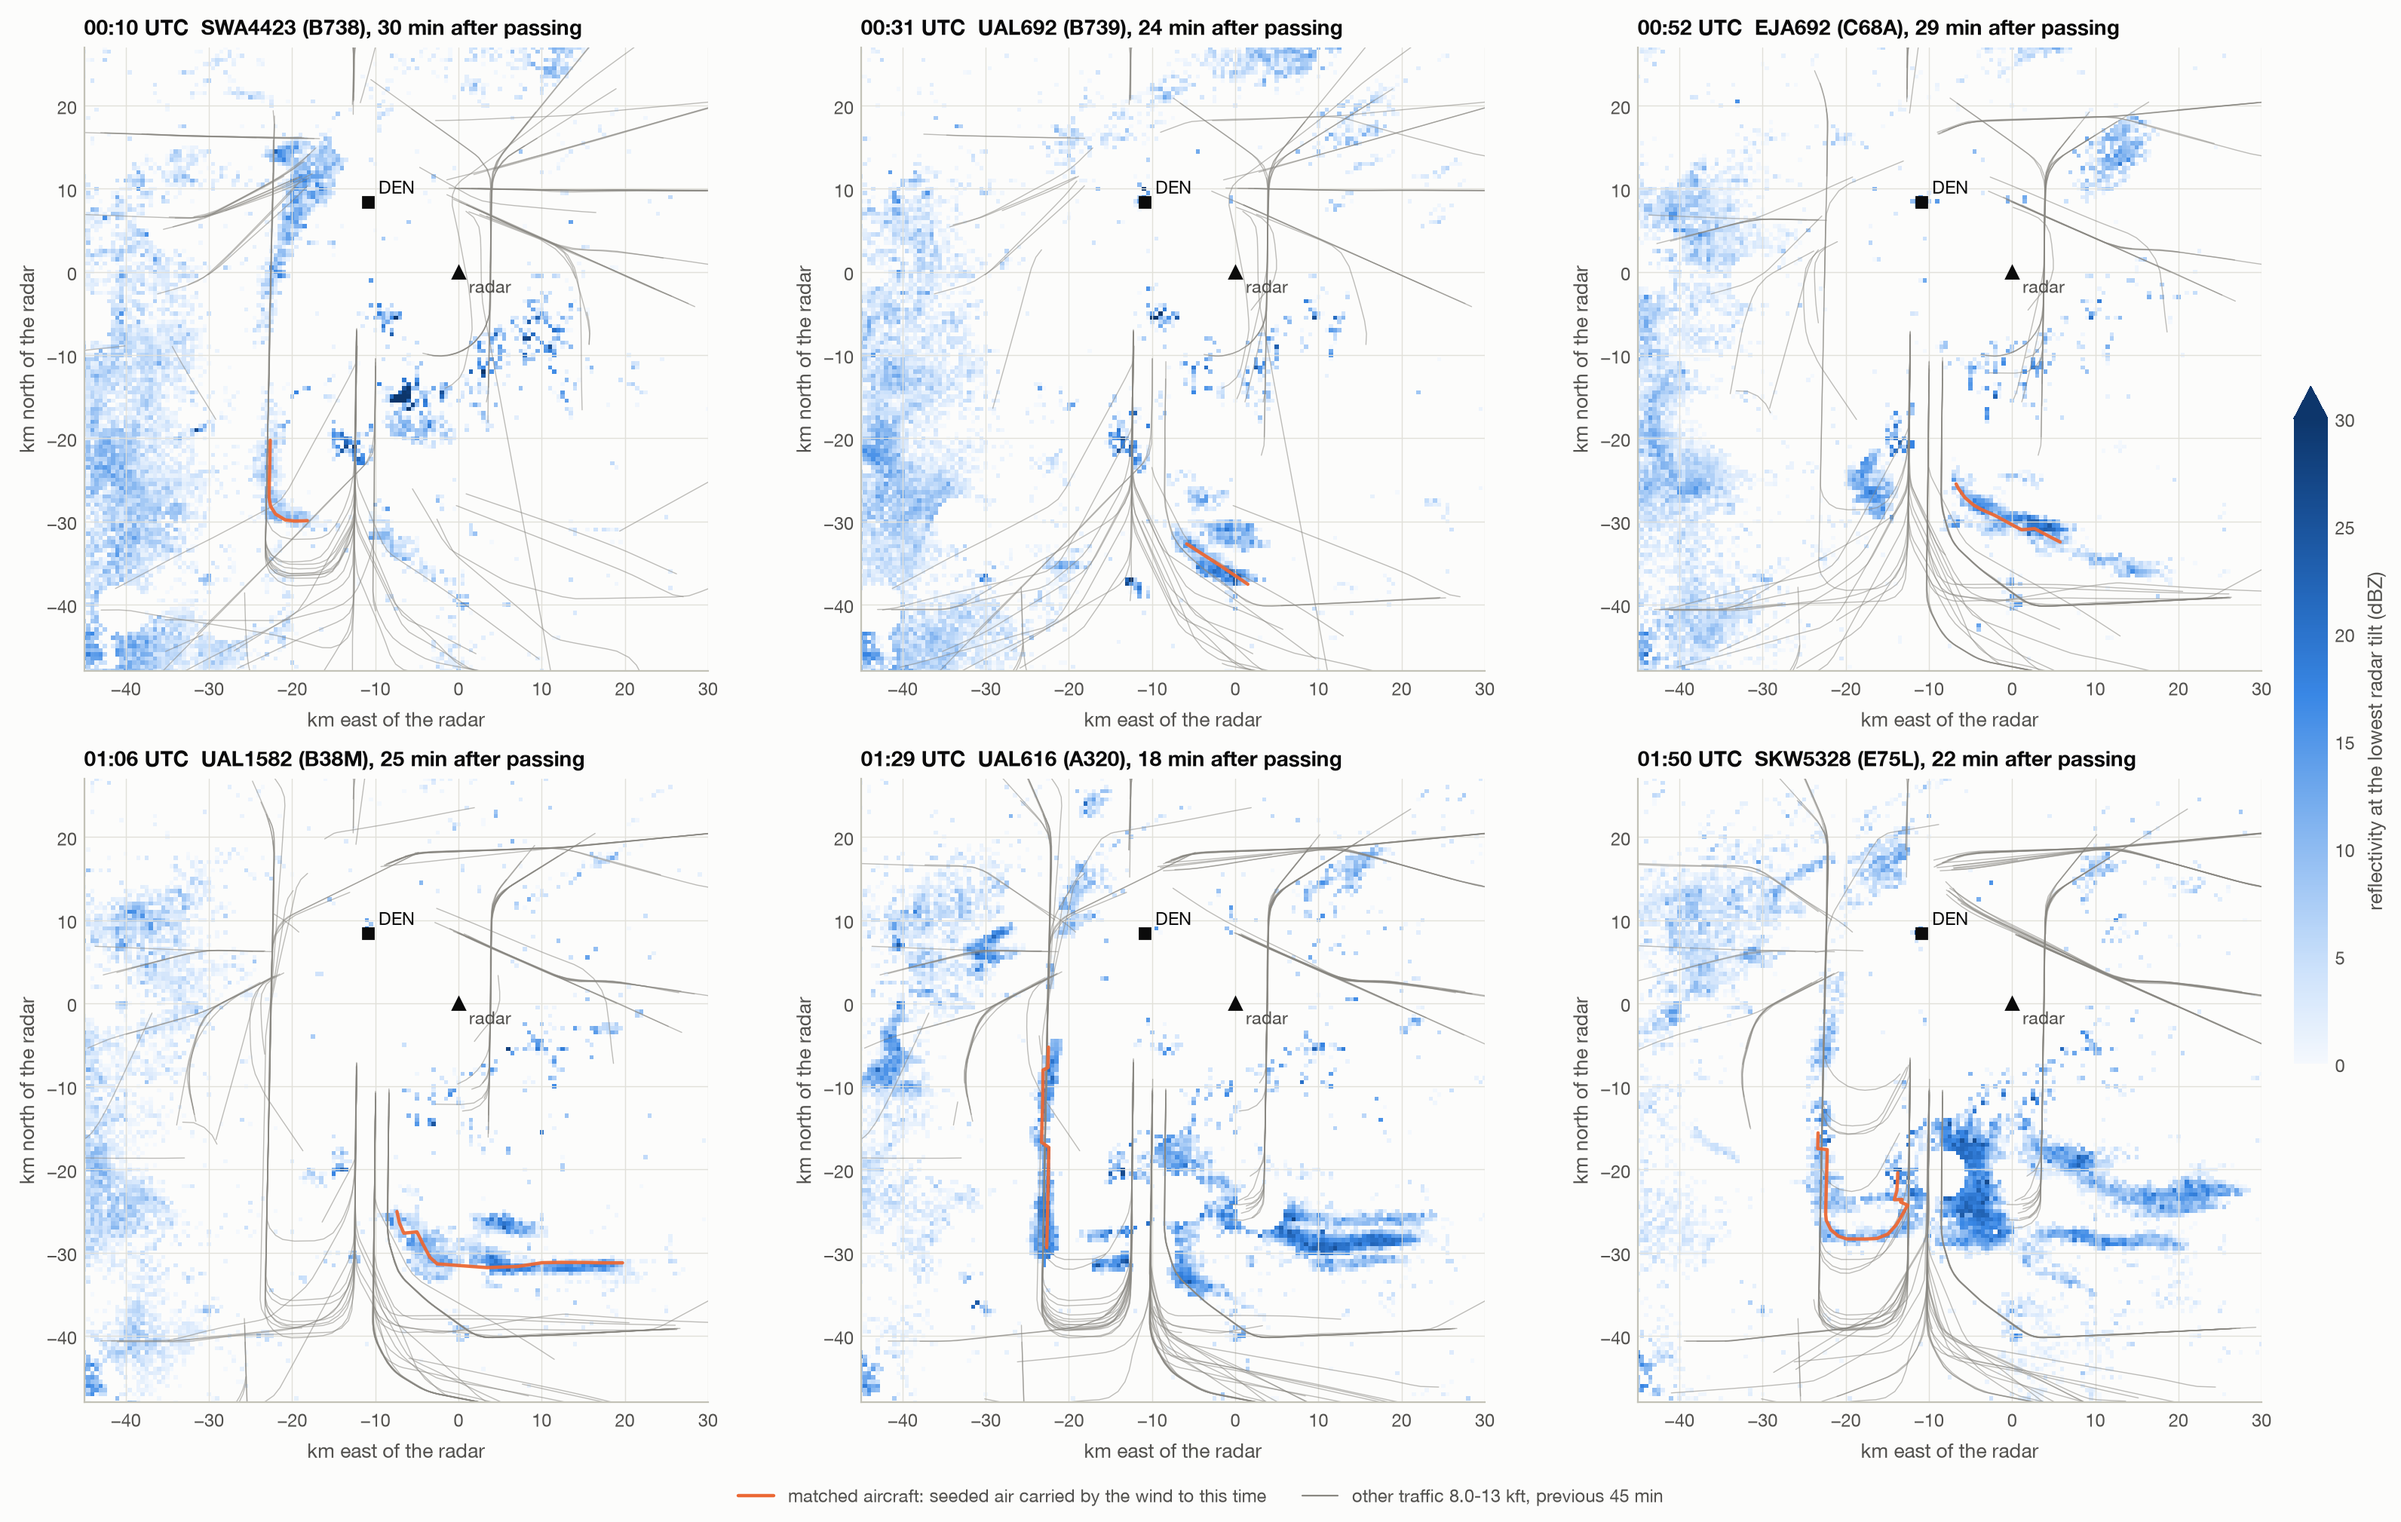
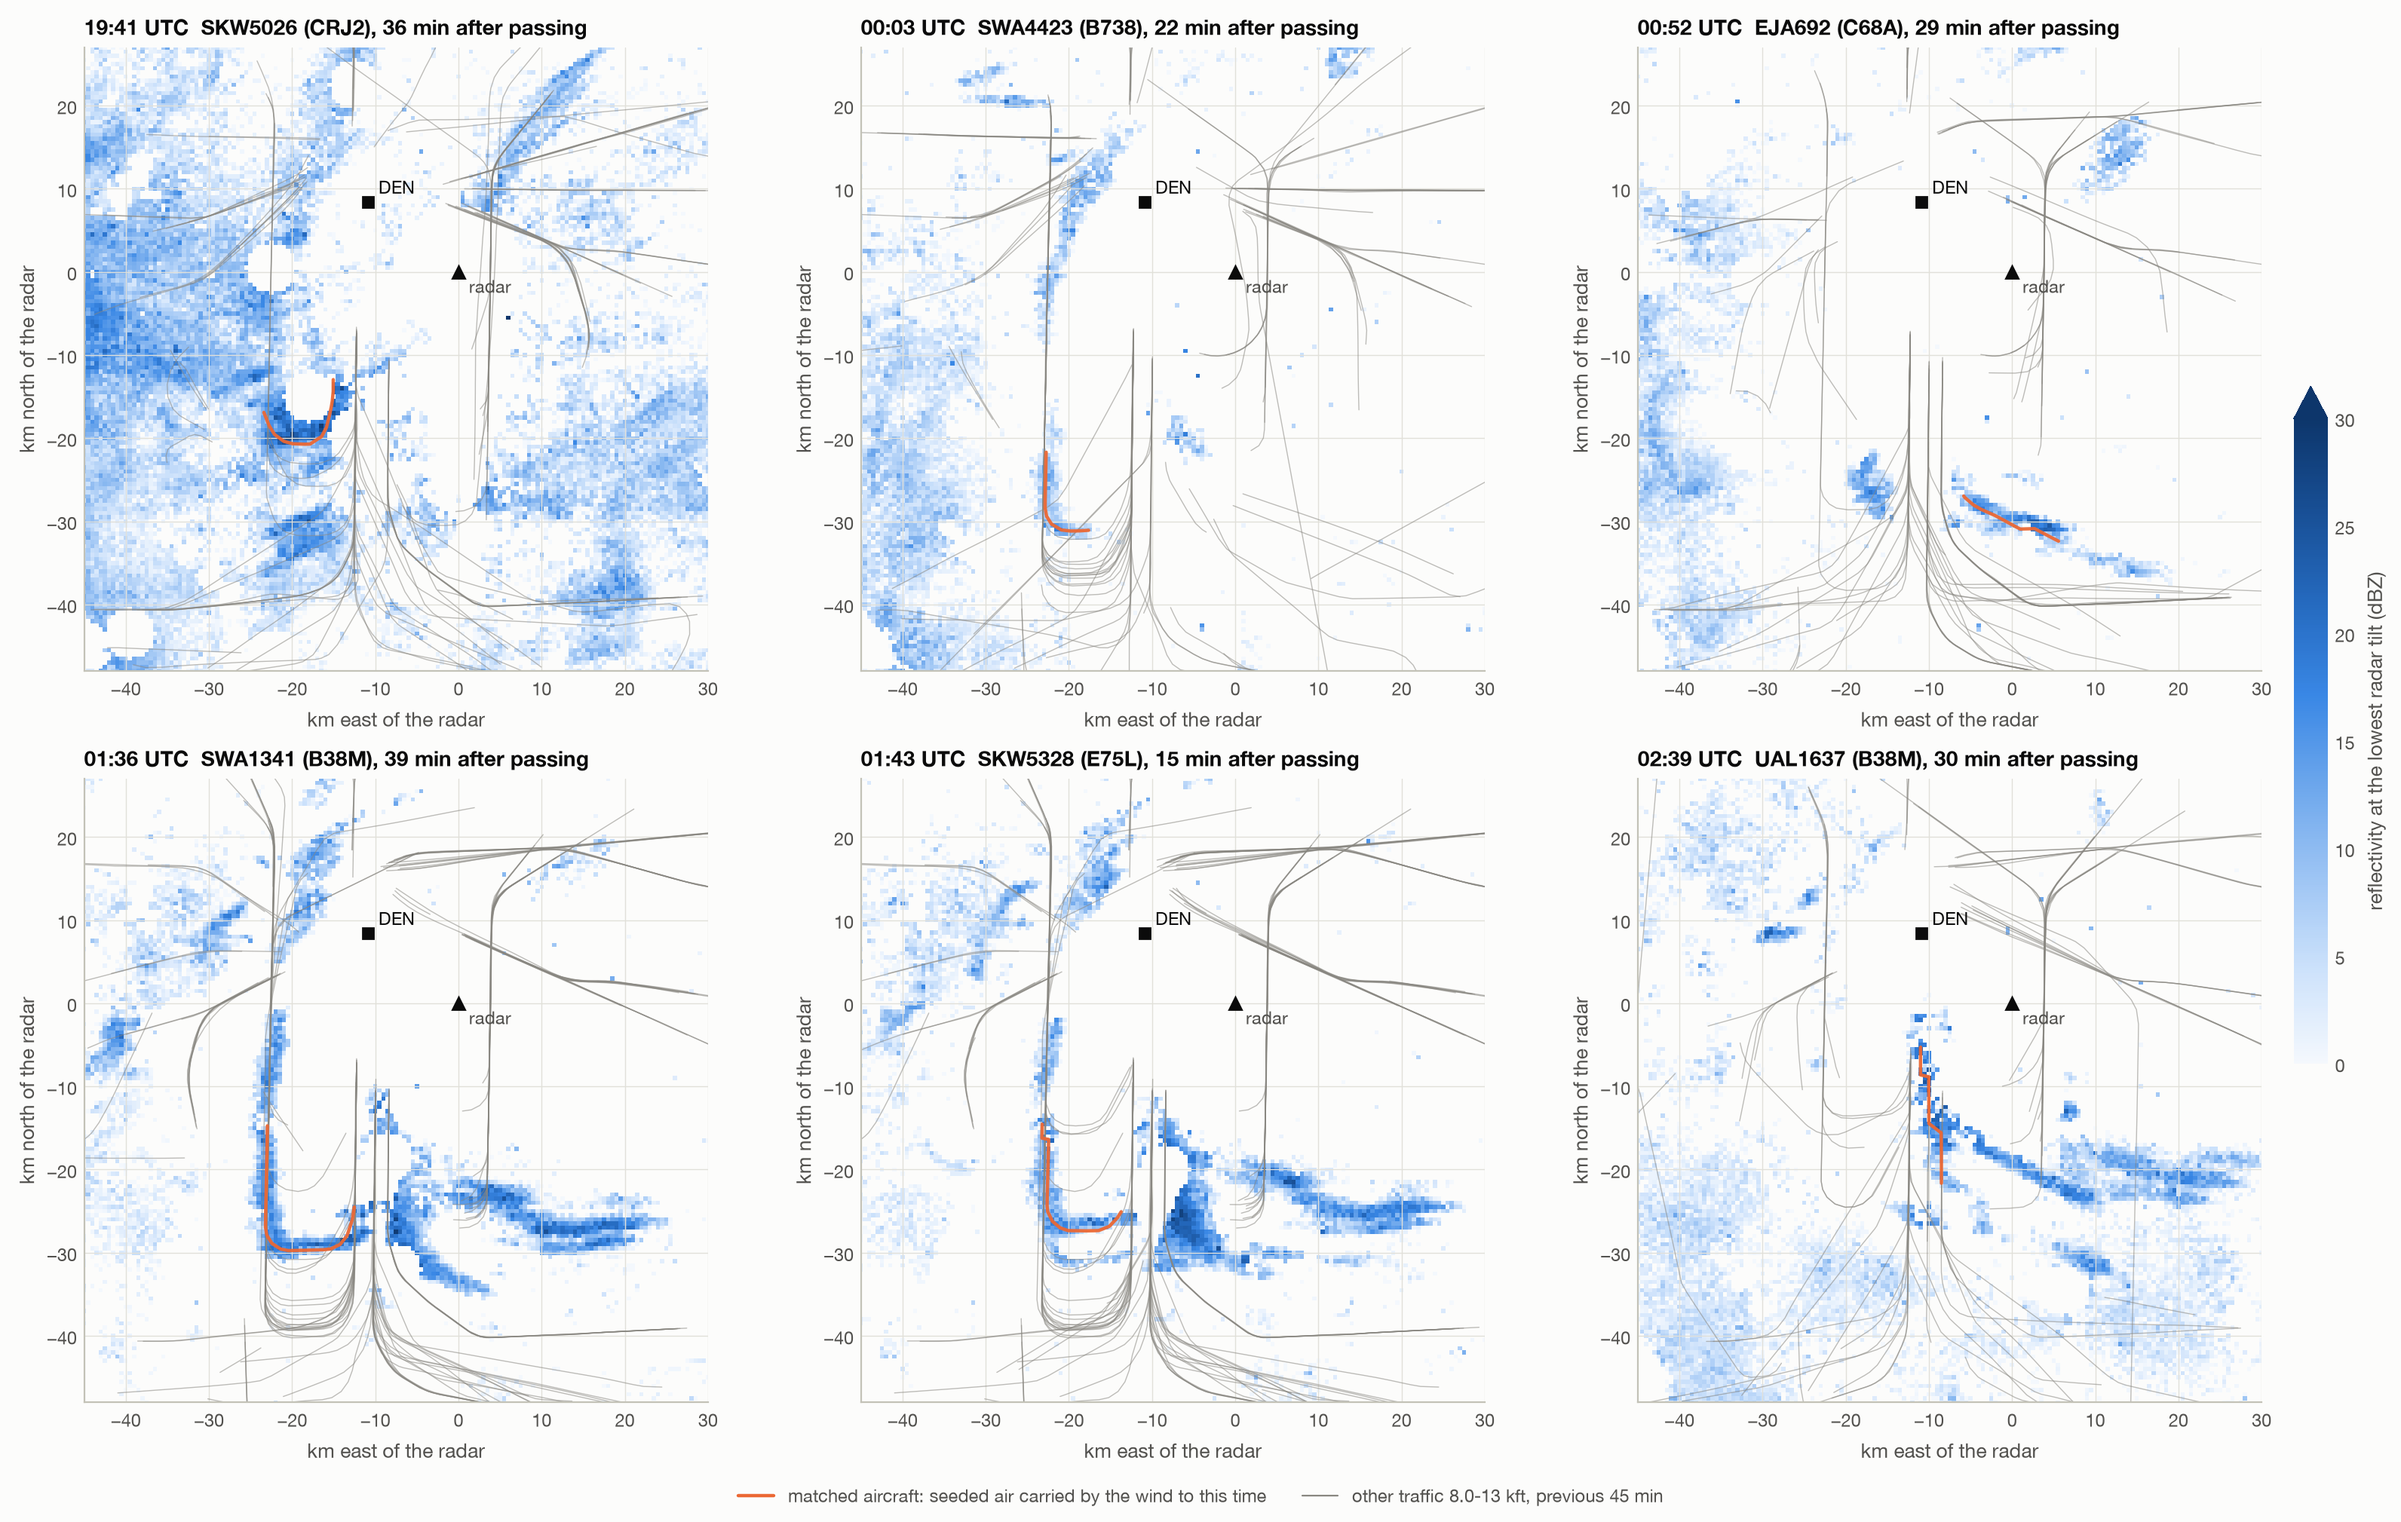
Denver figures, page and exposure layer from the final method; robust seeding layer; table in flight order

diff --git a/site/template.html b/site/template.html
@@ -144,10 +144,11 @@ footer.sources { padding-block: 28px 0; border-top: 1px solid var(--rule); font-
 
   <section aria-labelledby="h-aircraft">
     <div class="eyebrow">The aircraft</div>
-    <h2 id="h-aircraft">Ten flights, each matched to the streak it left</h2>
-    <p class="lede">Every one was an airliner or business jet, nine of them landing. They crossed the
-      cloud at about 3 km, in air at &minus;15 to &minus;18&nbsp;&deg;C, and their snow showed up on the
-      radar a quarter of an hour to three quarters of an hour later.</p>
+    <h2 id="h-aircraft">Sixteen flights matched to streaks, about twelve more than chance</h2>
+    <p class="lede">Most were airliners on the arrival pattern, and most crossed the cloud at about
+      3 km, in air at &minus;16 to &minus;18&nbsp;&deg;C; their snow showed up on the radar 15 to 50
+      minutes later. Rotated copies of the day's flights produce about
+      four such matches, so a few of these are probably chance; which ones cannot be told apart.</p>
     <div class="table-wrap">
       <table>
         <thead><tr><th scope="col">Flight</th><th scope="col">Type</th><th scope="col">Phase</th>
@@ -159,7 +160,9 @@ footer.sources { padding-block: 28px 0; border-top: 1px solid var(--rule); font-
     </div>
     <p class="note">Altitude is pressure altitude. Fall speed is the height the ice had to fall to
       reach the radar beam divided by the delay; snow crystals and flakes fall at 0.3&ndash;1.5 m/s.
-      Snowfall is water equivalent from the reflectivity, uncertain by a factor of a few.</p>
+      Snowfall is water equivalent from the reflectivity, uncertain by a factor of a few. Two rows
+      look physically odd (an airliner seeding at 20&nbsp;000 ft; one only 500 m above the beam) and
+      are likely among the chance matches.</p>
   </section>
 
   <section aria-labelledby="h-evidence">
@@ -195,11 +198,11 @@ footer.sources { padding-block: 28px 0; border-top: 1px solid var(--rule); font-
 
   <section aria-labelledby="h-physics">
     <div class="eyebrow">The physics</div>
-    <h2 id="h-physics">A streak lives about an hour, and colder air makes more of them</h2>
+    <h2 id="h-physics">A streak lives about an hour, and about one jet in eight made one</h2>
     <div class="two-col">
       <figure class="chart" style="margin:0">
         <div id="chart-lifecycle"></div>
-        <div class="chart-legend"><span><i class="sw band"></i>90% range over the ten flights</span></div>
+        <div class="chart-legend"><span><i class="sw band"></i>90% range over the matched flights</span></div>
         <figcaption class="note">Radar echo on each matched flight's wind-carried track, minus the
           echo 5&ndash;8 km to either side, followed through every scan. Between 10 and 50 minutes the
           curve partly reflects how flights were chosen; its rise before and fall after do not.</figcaption>
@@ -208,8 +211,9 @@ footer.sources { padding-block: 28px 0; border-top: 1px solid var(--rule); font-
         <div id="chart-efficiency"></div>
         <div class="chart-legend"><span><i class="sw fill"></i>jets that left a streak</span>
           <span><i class="sw ring"></i>same jets rotated (chance)</span></div>
-        <figcaption class="note">Jets entering clear air in the cloud layer that afternoon and evening.
-          Warmer bins include flights below the cloud base, so this shows the trend, not a threshold.</figcaption>
+        <figcaption class="note">Jets entering clear air in the cloud layer (8&nbsp;650&ndash;11&nbsp;800 ft,
+          21:20&ndash;04:40 UTC). About one in eight left a streak, eight to ten times the chance rate. Colder
+          air did slightly better, but by less than the uncertainty in each bin.</figcaption>
       </figure>
     </div>
   </section>

diff --git a/scripts/seeding_efficiency.py b/scripts/seeding_efficiency.py
@@ -3,8 +3,9 @@
 usage: seeding_efficiency.py SITE YYYY-MM-DD [--alpha 0.01] [--layer-ft 1000] [--pad-min 60]
 
 On an event day, the seeding layer and period are taken from the confident matches
-(p <= alpha): altitudes within --layer-ft of the matched seeding altitudes, passage times
-from --pad-min before the first to --pad-min after the last match. Every flight with a
+(p <= alpha), robustly to stray matches: altitudes from --layer-ft below the lower to
+--layer-ft above the upper quartile of the matched seeding altitudes, passage times from
+--pad-min before the 10th to --pad-min after the 90th percentile. Every flight with a
 track segment in that layer and period is "exposed". For each exposed flight, and only
 where its air was echo-free before it arrived (first passage), the question is whether a
 streak object later lay along its drifted track: the best single-flight F1 against all
@@ -42,10 +43,12 @@ def main():
     desc = pd.read_csv(ev / f"{day}_described.csv")
     if conf.empty or desc.empty:
         raise SystemExit("no confident matches")
-    alt_lo = desc.seed_alt_ft.min() - a.layer_ft
-    alt_hi = desc.seed_alt_ft.max() + a.layer_ft
-    t_lo = conf.t_pass.min() - a.pad_min * 60
-    t_hi = conf.t_pass.max() + a.pad_min * 60
+    # robust to a stray match: the interquartile range of the seeding altitudes and the
+    # 10th-90th percentile of the passage times (some matches are expected to be chance)
+    q25, q75 = desc.seed_alt_ft.quantile([0.25, 0.75])
+    alt_lo, alt_hi = q25 - a.layer_ft, q75 + a.layer_ft
+    t10, t90 = conf.t_pass.quantile([0.1, 0.9])
+    t_lo, t_hi = t10 - a.pad_min * 60, t90 + a.pad_min * 60
     prep = pipeline.prepare(a.site, day)
     G = prep["grids"]
     pts, dr = pipeline.matching_points(prep)

diff --git a/scripts/export_page_data.py b/scripts/export_page_data.py
@@ -68,8 +68,10 @@ def main():
     ev = ROOT / "data" / "events" / a.site
     s = json.loads((ev / f"{a.day}.json").read_text())
     desc = pd.read_csv(ev / f"{a.day}_described.csv")
-    best = desc.sort_values("p_value").drop_duplicates("flight").sort_values("time_utc")
-    best["pass_utc"] = (pd.to_datetime(best.time_utc) - pd.to_timedelta(best.age_min, unit="min")).dt.strftime("%H:%M")
+    best = desc.sort_values("p_value").drop_duplicates("flight").copy()
+    passed = pd.to_datetime(best.time_utc) - pd.to_timedelta(best.age_min, unit="min")
+    best = best.assign(_passed=passed).sort_values("_passed")          # in the order they flew
+    best["pass_utc"] = best._passed.dt.strftime("%H:%M")
     best["scan_utc"] = pd.to_datetime(best.time_utc).dt.strftime("%H:%M")
     fdr = {f["threshold"]: f for f in s["streaks"].get("fdr", [])}
     out = {
